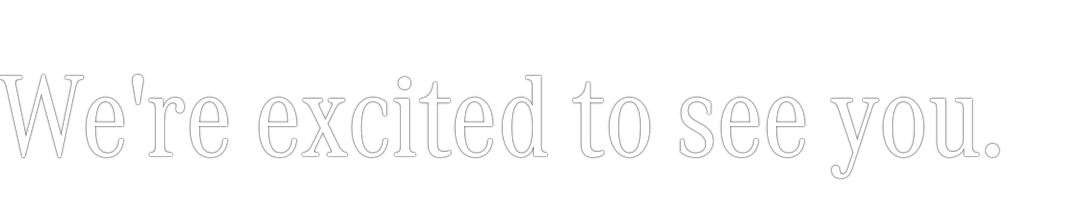
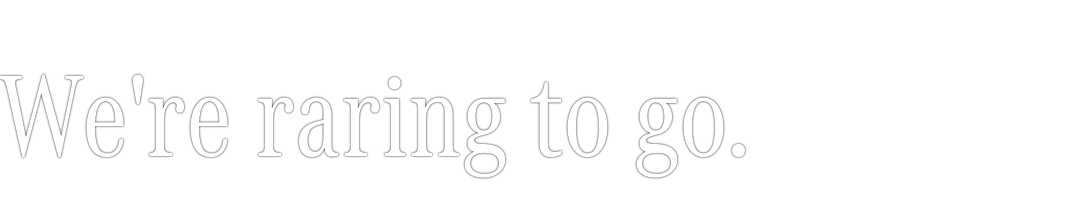
update

Changed region(s): [[0.2179, 0.3636, 0.9341, 0.9091], [0.3425, 0.3636, 0.4048, 0.4545], [0.7473, 0.8182, 0.7784, 0.9091]]

diff --git a/complete/mbw/CRM Emails/drive mercedes-benz • remind.html b/complete/mbw/CRM Emails/drive mercedes-benz • remind.html
@@ -387,12 +387,12 @@
                             </tbody>
                           </table>
                           <div class="mobile-hide">
-                            <h1 style="Margin: 0 0 26px; line-height: 1; color:#ffffff"><img src="images/h1-d-reminder@2x.png" alt="We're excited to see you." style="display: block; width: 546px; max-width: 100%;" class="full-width" width="546" border="0"></h1>
+                            <h1 style="Margin: 0 0 26px; line-height: 1; color:#ffffff"><img src="images/h1-d-reminder@2x.png" alt="We're raring to go." style="display: block; width: 546px; max-width: 100%;" class="full-width" width="546" border="0"></h1>
                           </div>
                           <!--[if !mso]><!-->
                           <div class="mobile-show" style="display:none; max-height:0px; height:0; width:0; font-size:0; line-height:0; overflow:hidden; mso-hide:all;">
                             <h1 style="Margin: 0 0 35px; line-height: 1; color: #ffffff">
-                              <img src="images/h1-m-reminder@2x.png" alt="We're excited to see you." style="width:100%; display: block;" class="fluid" width="100%" border="0">
+                              <img src="images/h1-m-reminder@2x.png" alt="We're raring to go." style="width:100%; display: block;" class="fluid" width="100%" border="0">
                             </h1>
                           </div>
                           <!--<![endif]-->
@@ -405,11 +405,12 @@
                           <p class="body-copy" style="font: 16px/24px Arial, Helvetica, sans-serif; color: #ffffff; Margin: 0 0 20px 0;">
                             Hello {{Customer.First_Name}} {{Customer.Last_Name}}
                           </p>
-                          <p class="body-copy" style="font: 16px/24px Arial, Helvetica, sans-serif; color: #ffffff; Margin: 0 0 20px 0;">
-                            We're raring to go.
-                          </p>
+
                           <p class="body-copy" style="font: 16px/24px Arial, Helvetica, sans-serif; color: #ffffff; Margin: 0 0 20px 0;">
                             There are only a few days left until you get behind the wheel at Mercedes&#8209;Benz World. We're looking forward to seeing you. Before then, here's a summary of what you've booked &#8209; and some useful&nbsp;info.
+                          </p>
+                          <p class="body-copy" style="font: 16px/24px Arial, Helvetica, sans-serif; color: #ffffff; Margin: 0 0 20px 0;">
+                            all that’s left to do is to consider what else you might get up to on your visit &#8209;&nbsp;and who you might bring. With three floors of attractions and displays, plus a menu of delicious food and drink at the Recharge Café, Mercedes&#8209;Benz World is the perfect day out for all the family and a great place to meet&nbsp;friends.
                           </p>
 
                           <h3 class="" style="font: 16px/30px Arial, Helvetica, sans-serif; color: #ffffff; Margin: 40px 0 20px 0; font-weight: bold">
